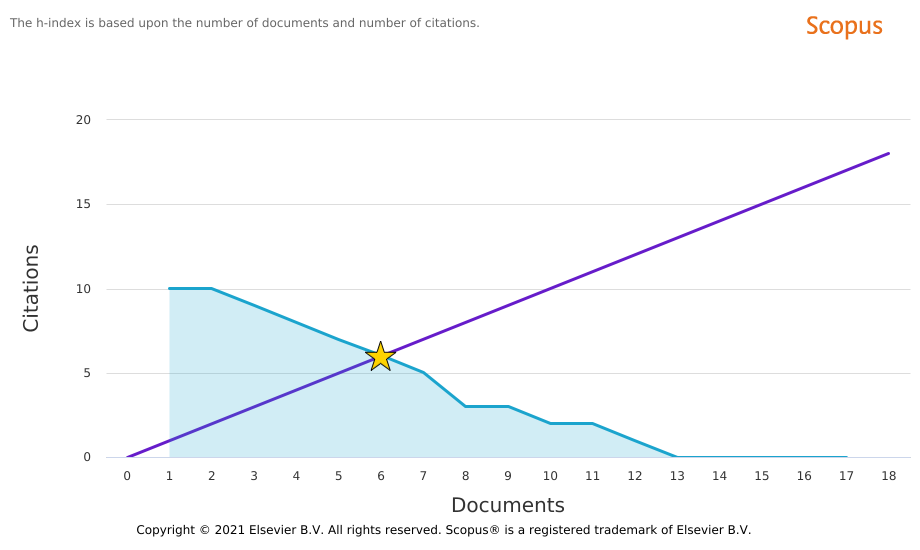
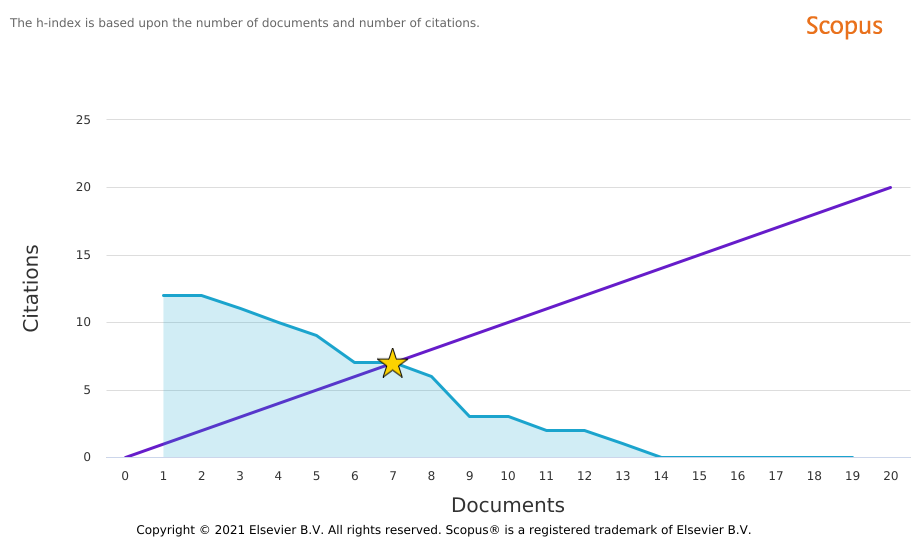
Updated journal and h-index

diff --git a/research.html b/research.html
@@ -442,14 +442,18 @@ Massei and L. Robol.
     <td><img src="/assets/img/FDSubjectAreas.png" width="80%" alt="Subject Areas"></td>
   </tr>
   <tr>
-    <td style="text-align: center;">(Scopus) H-Index: 6</td>
+    <td style="text-align: center;">(Scopus) H-Index: 7</td>
     <td style="text-align: center;">(Scopus) Subject Areas</td>
   </tr>
   </table>
 
 <h2> Editorial Work </h2>
 
-I serve as editor for the <a href="https://jmm.guilan.ac.ir/" target="_blank">Journal of Mathematical Modeling</a> (J. Math. Model.)<br>
+I serve as editor for:
+<ul class="fa-ul">
+  <li><span class="fa-li"><i class="fas fa-pen-nib"></i></span> <a href="http://www.springer.com/mathematics/applications/journal/40314" target="_blank">Computational and Applied Mathematics</a> (Comput. Appl. Math.)</li>
+  <li><span class="fa-li"><i class="fas fa-pen-nib"></i></span> <a href="https://jmm.guilan.ac.ir/" target="_blank">Journal of Mathematical Modeling</a> (J. Math. Model.)</li>
+</ul>
 <br>
 I have served as reviewer for manuscripts submitted to the following journals.<br>
 <table>
